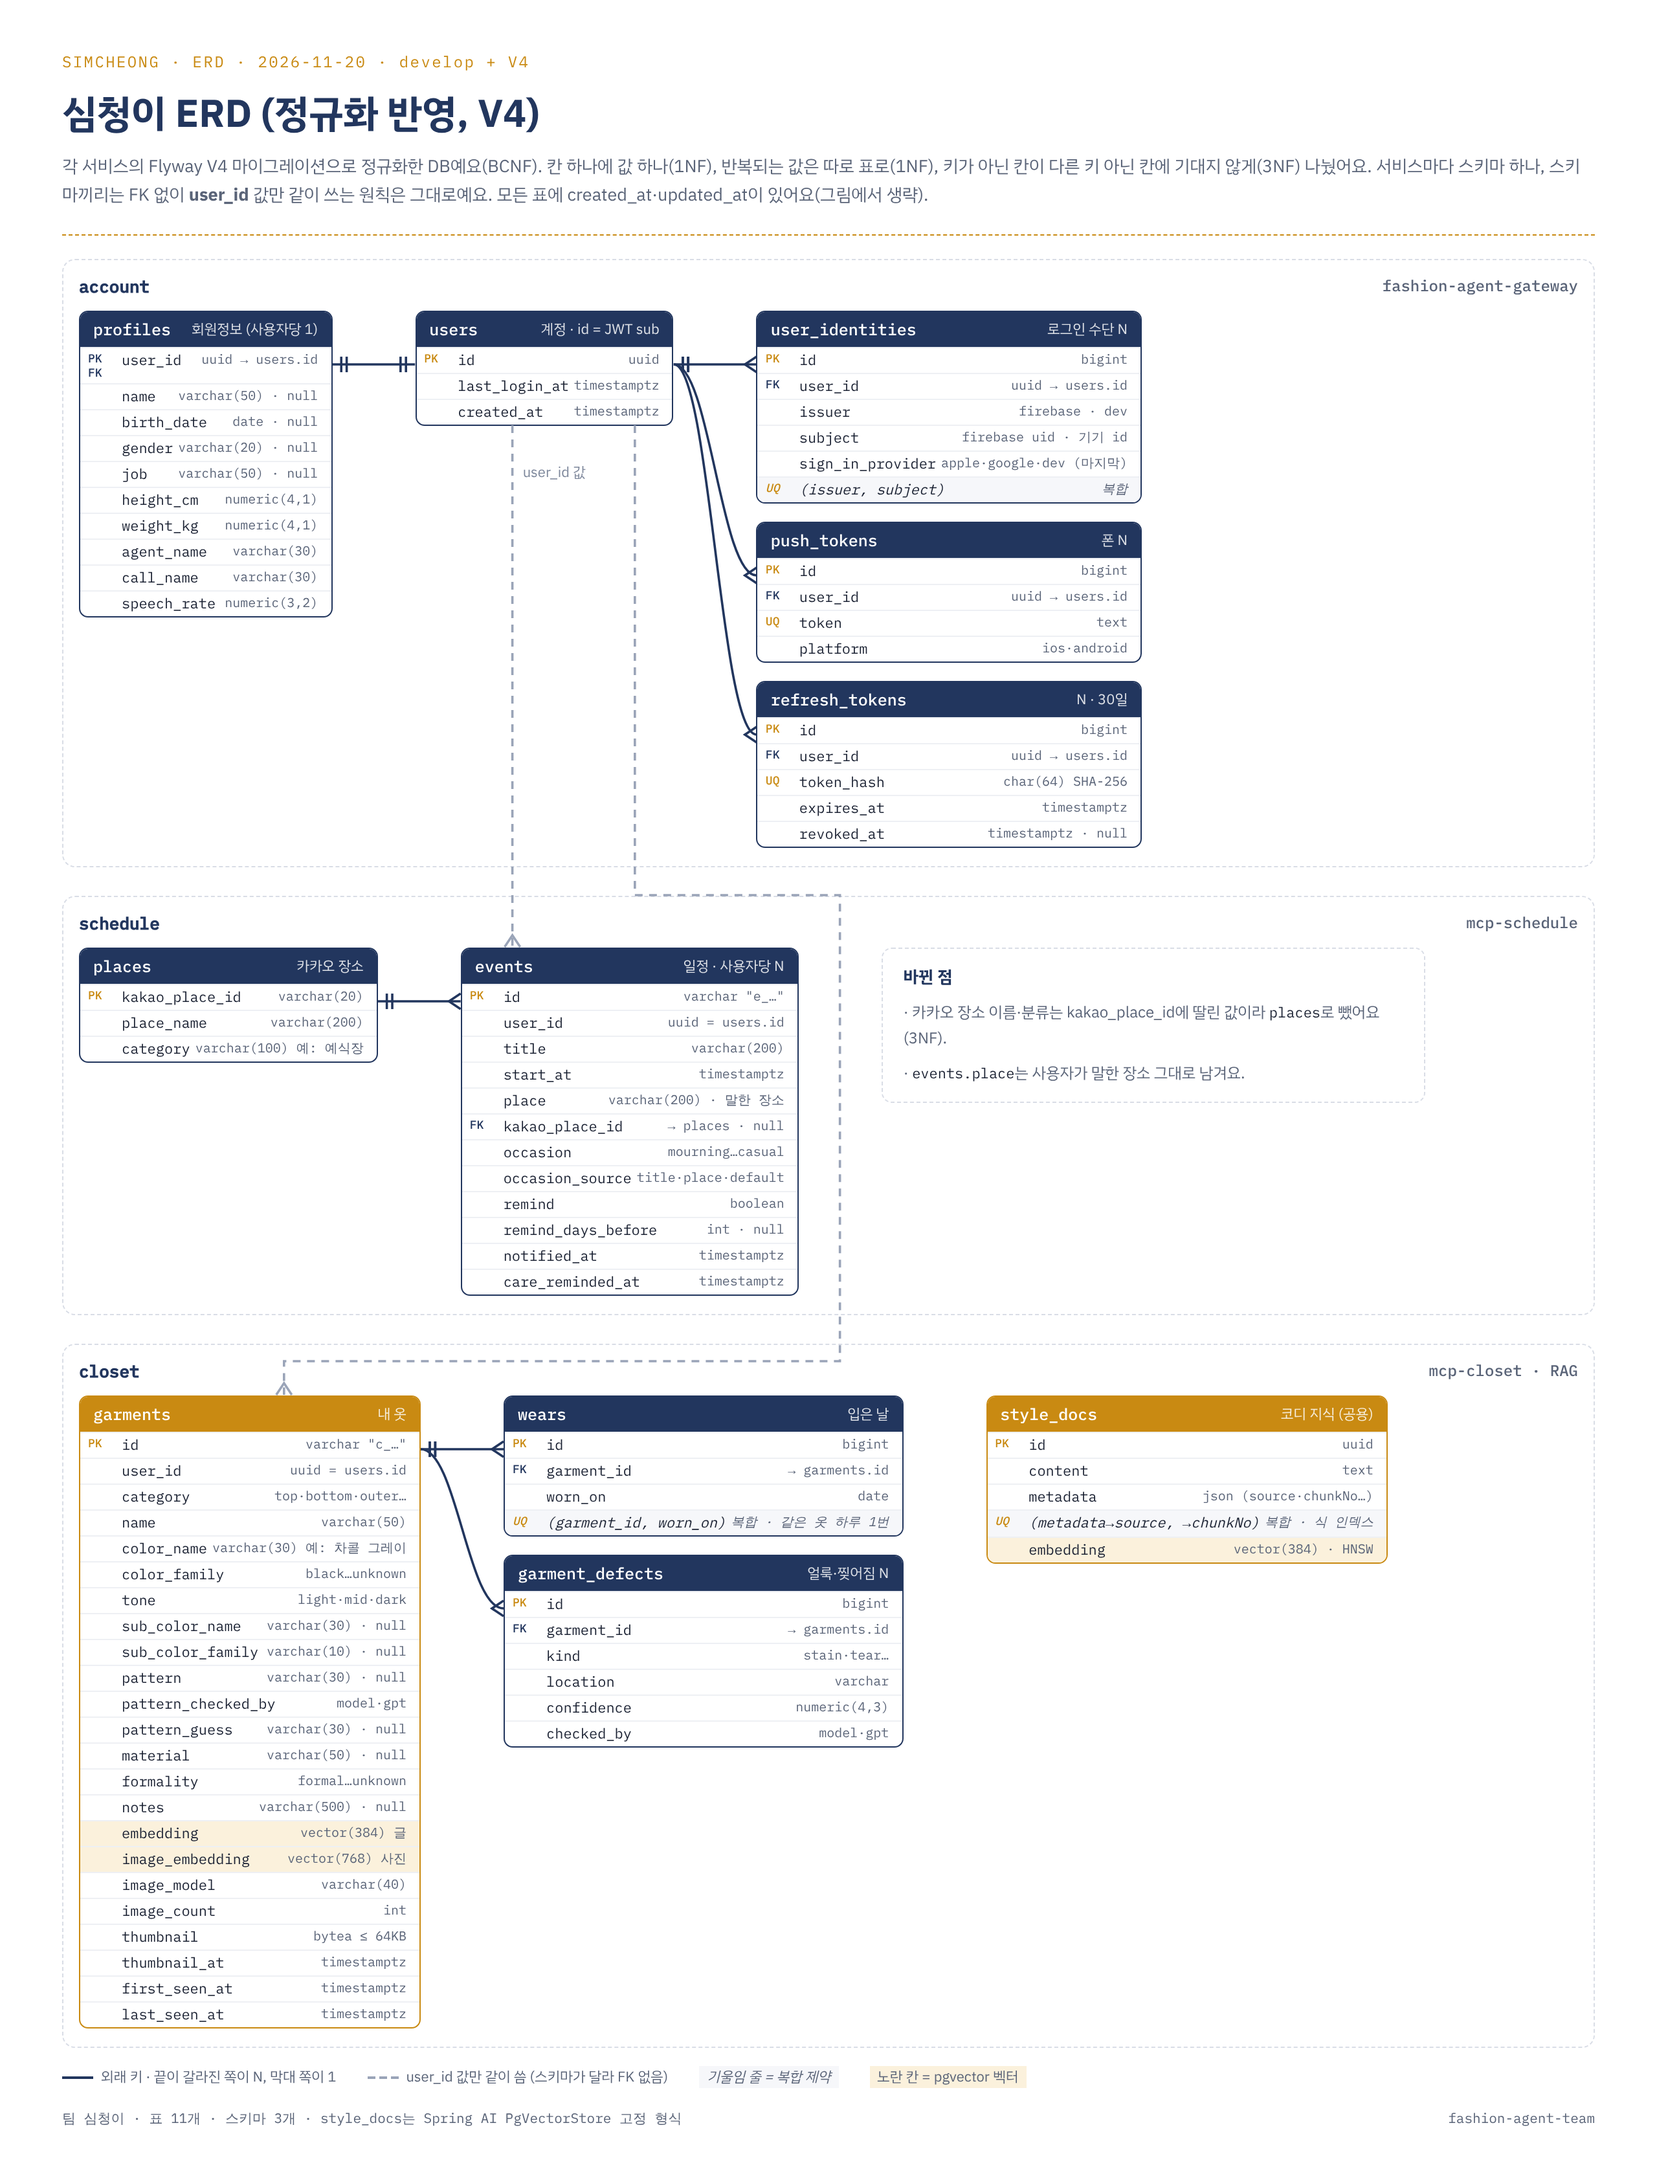
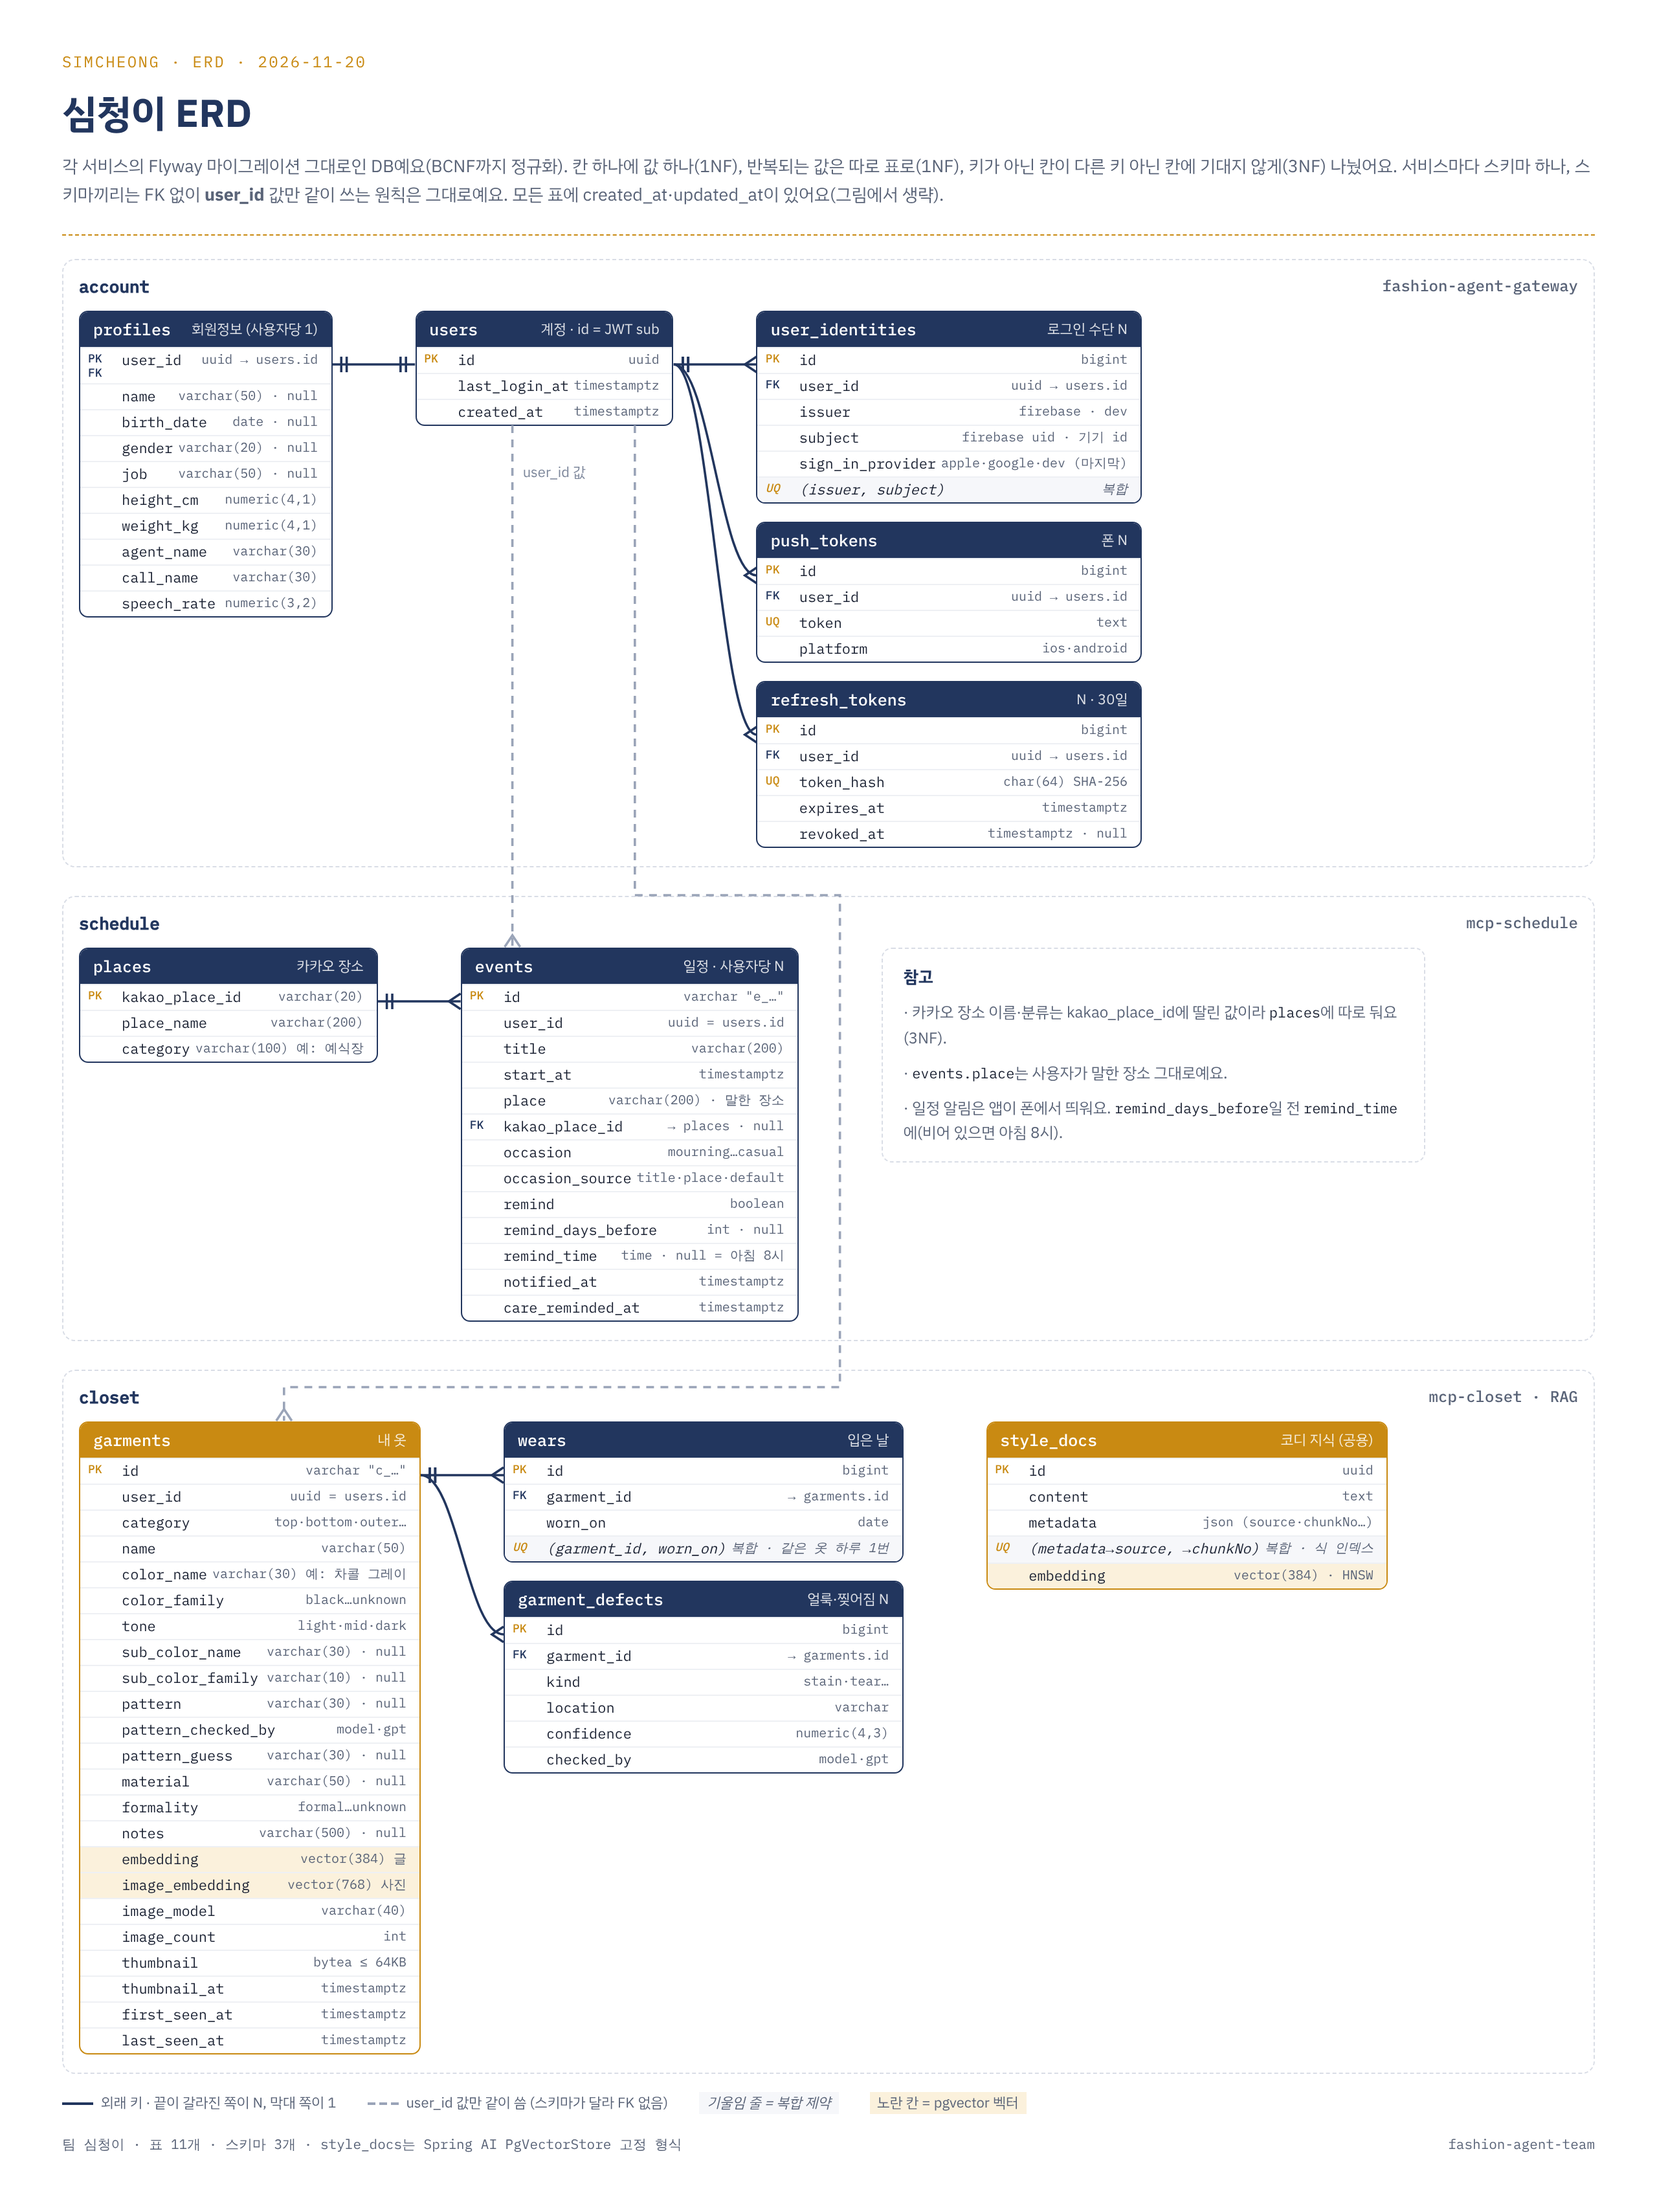
ERD 그림 제목을 심청이 ERD로, 일정 알림 시각(remind_time) 칸 추가
Claude-Session: https://claude.ai/code/session_01AaHUvbca1xS4A8MYHeevv3

diff --git a/profile/README.md b/profile/README.md
@@ -98,7 +98,7 @@
 
 ## 🗂 ERD
 
-> 각 서비스 레포의 Flyway 마이그레이션(2026-11-20 `develop`, V4 정규화) 그대로예요. 스키마 3개, 표 11개.
+> 각 서비스 레포의 Flyway 마이그레이션(2026-11-20 `develop`) 그대로예요. 스키마 3개, 표 11개.
 
 <p align="center"><img src="https://raw.githubusercontent.com/fashion-agent-team/.github/main/profile/images/erd.png" width="100%" alt="심청이 ERD: account, schedule, closet 스키마"/></p>
 
